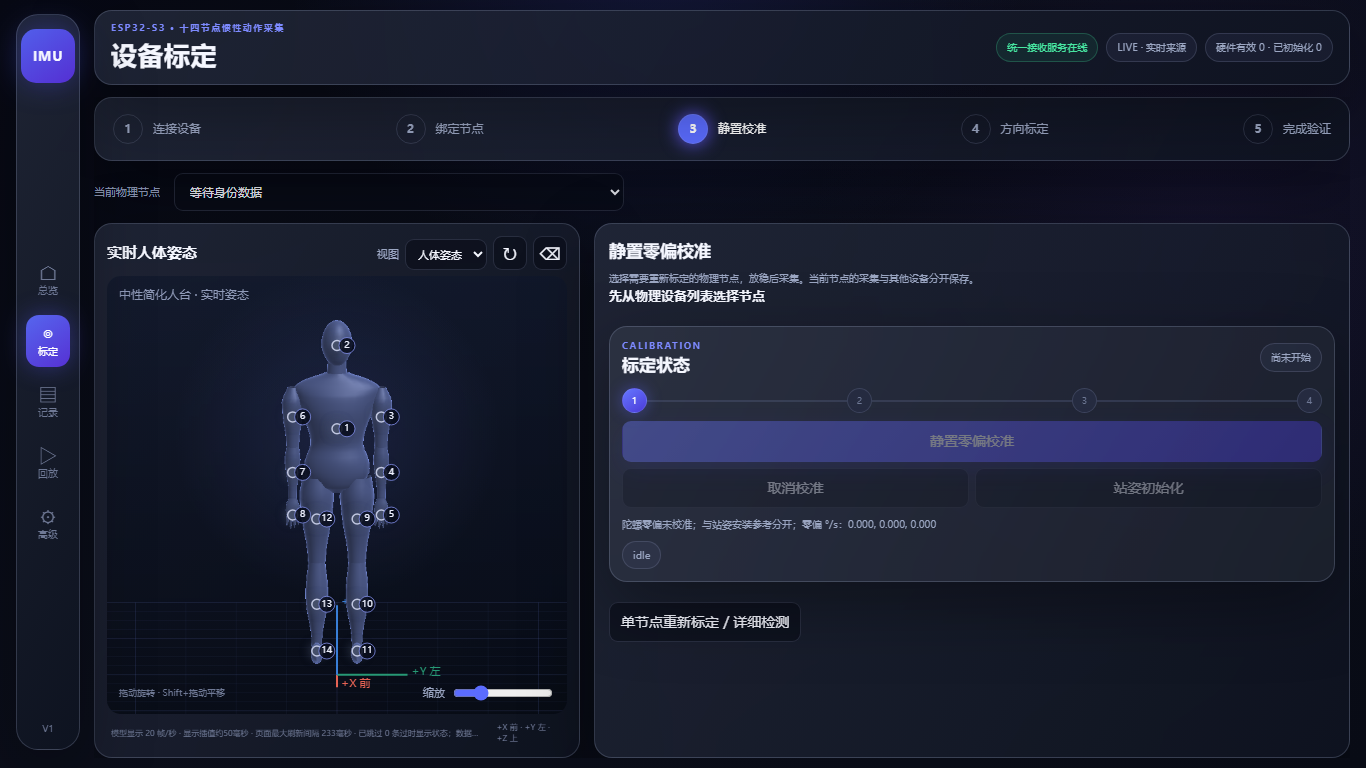
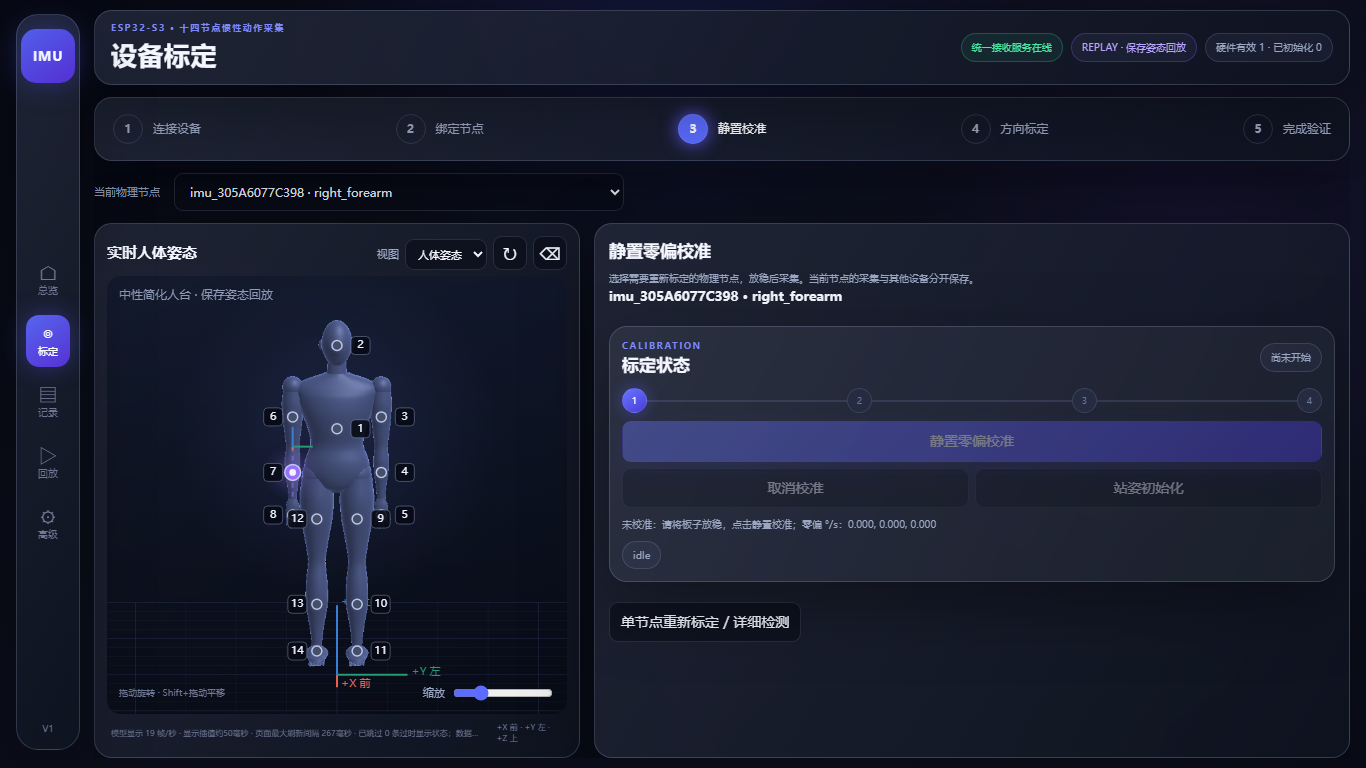
feat: refine mannequin joints hands feet and sensor markers

diff --git a/host/web/mannequin.js b/host/web/mannequin.js
@@ -22,6 +22,24 @@
       for(let j=0;j<=steps;j++){const t=j/steps,r=interpolate(profile,t),center=add(a,mul(sub(b,a),t));rings.push(Array.from({length:sides},(_,i)=>{const angle=i/sides*2*Math.PI;return add(center,add(mul(u,r*Math.cos(angle)),mul(v,r*depth*Math.sin(angle))));}));}
       surface(rings,sides);
     }
+    function ellipsoid(center,radii,q=[1,0,0,0]){
+      const rings=[],sides=24;
+      for(let j=0;j<=16;j++){const phi=-Math.PI/2+j/16*Math.PI,r=Math.max(.002,Math.cos(phi));rings.push(Array.from({length:sides},(_,i)=>{const angle=i/sides*2*Math.PI;return add(center,rotate([radii[0]*r*Math.cos(angle),radii[1]*r*Math.sin(angle),radii[2]*Math.sin(phi)],q));}));}surface(rings,sides);
+    }
+    const joined=new Set();
+    function limb(upper,lower,top,bottom,depth=1){
+      const a=upper.start,b=upper.end,c=lower.end,first=sub(b,a),second=sub(c,b),tangent=unit(add(unit(first),unit(second))),rings=[],sides=24;
+      const direction=unit(first),capU=unit(cross(direction,Math.abs(direction[0])<.8?[1,0,0]:[0,1,0])),capV=unit(cross(direction,capU));
+      for(let j=0;j<5;j++){const angle=j/5*Math.PI/2,center=add(a,mul(direction,-top[0]*Math.cos(angle))),radius=Math.max(.001,top[0]*Math.sin(angle));rings.push(Array.from({length:sides},(_,i)=>add(center,add(mul(capU,radius*Math.cos(i/sides*2*Math.PI)),mul(capV,radius*depth*Math.sin(i/sides*2*Math.PI))))));}
+      for(let k=0;k<=32;k++){
+        const part=k<=16?0:1,t=part?(k-16)/16:k/16,start=part?b:a,end=part?c:b,length=Math.hypot(...sub(end,start)),m0=mul(part?tangent:unit(first),length),m1=mul(part?unit(second):tangent,length),t2=t*t,t3=t2*t;
+        const center=start.map((v,i)=>(2*t3-3*t2+1)*v+(t3-2*t2+t)*m0[i]+(-2*t3+3*t2)*end[i]+(t3-t2)*m1[i]);
+        const derivative=unit(start.map((v,i)=>(6*t2-6*t)*v+(3*t2-4*t+1)*m0[i]+(-6*t2+6*t)*end[i]+(3*t2-2*t)*m1[i]));
+        const u=unit(cross(derivative,Math.abs(derivative[0])<.8?[1,0,0]:[0,1,0])),v=unit(cross(derivative,u)),radius=interpolate(part?bottom:top,t);
+        rings.push(Array.from({length:sides},(_,i)=>add(center,add(mul(u,radius*Math.cos(i/sides*2*Math.PI)),mul(v,radius*depth*Math.sin(i/sides*2*Math.PI))))));
+      }
+      surface(rings,sides);joined.add(upper.id||upper.slot);joined.add(lower.id||lower.slot);
+    }
     const pelvis=map.pelvis;
     if(pelvis){
       const base=pelvis.start,q=pelvis.world_quaternion||[1,0,0,0],rows=[[-.075,.038,.05],[-.045,.115,.087],[.015,.16,.105],[.085,.158,.105],[.16,.132,.09],[.24,.145,.105],[.33,.18,.115],[.41,.205,.105],[.455,.21,.085],[.49,.155,.068],[.525,.056,.052]],rings=[];
@@ -30,12 +48,18 @@
       const row=rows.at(-1);rings.push(Array.from({length:28},(_,i)=>add(base,rotate([row[2]*Math.cos(i/28*Math.PI*2),row[1]*Math.sin(i/28*Math.PI*2),row[0]],q))));surface(rings,28);
       const neck=map.head?.start||add(base,rotate([0,0,.55],q));tube(add(base,rotate([0,0,.49],q)),add(neck,rotate([0,0,.07],q)),[.053,.048,.046],.9);
     }
+    for(const side of ["left","right"]){
+      const arm=map[side+"_upper_arm"],forearm=map[side+"_forearm"],thigh=map[side+"_thigh"],shank=map[side+"_shank"];
+      if(arm&&forearm)limb(arm,forearm,[.047,.054,.050,.042,.033],[.033,.039,.036,.027,.021],1.03);
+      if(thigh&&shank)limb(thigh,shank,[.075,.086,.078,.059,.043],[.043,.054,.055,.037,.025],1.1);
+    }
     for(const segment of segments){
-      const id=segment.id||segment.slot,a=segment.start,b=segment.end;if(!a||!b||id==="pelvis")continue;
+      const id=segment.id||segment.slot,a=segment.start,b=segment.end;if(!a||!b||id==="pelvis"||joined.has(id))continue;
       if(id==="head"){
         const q=segment.world_quaternion||[1,0,0,0],length=Math.hypot(...sub(b,a)),center=add(a,mul(sub(b,a),.54)),rings=[],sides=28;
         for(let j=0;j<=22;j++){const phi=-Math.PI/2+j/22*Math.PI,ring=Math.max(.003,Math.cos(phi)),jaw=phi<-.15?.79+.21*(phi+Math.PI/2)/(Math.PI/2-.15):1;
           rings.push(Array.from({length:sides},(_,i)=>{const theta=i/sides*2*Math.PI;let x=.084*ring*Math.cos(theta),y=.077*ring*Math.sin(theta)*jaw,z=length*.54*Math.sin(phi);const nose=Math.max(0,Math.cos(theta))**18*Math.exp(-(((phi+.07)/.22)**2))*.018;x+=nose;return add(center,rotate([x,y,z],q));}));}surface(rings,sides);
+        for(const side of [-1,1])ellipsoid(add(center,rotate([-.008,side*.077,-.006],q)),[.012,.014,.027],q);
       }else if(id.includes("upper_arm"))tube(a,b,[.025,.052,.052,.045,.036,.032],1.05);
       else if(id.includes("forearm"))tube(a,b,[.031,.039,.037,.029,.022,.021],.95);
       else if(id.includes("thigh"))tube(a,b,[.072,.086,.079,.068,.052,.044],1.12);
@@ -46,7 +70,8 @@
         for(let finger=0;finger<4;finger++){const spread=(finger-1.5)*.016,start=add(add(a,mul(delta,.53)),mul(side,spread)),end=add(add(a,mul(delta,.95-Math.abs(finger-1.3)*.09)),mul(side,spread*1.22));tube(start,end,[.008,.008,.006,.002],.8,10,6);}
         tube(add(a,mul(delta,.21)),add(add(a,mul(delta,.65)),mul(side,.047)),[.012,.011,.006,.002],.8,12,6);
       }else if(id.includes("foot")){
-        const delta=sub(b,a),q=segment.world_quaternion,down=rotate([0,0,-.04],q),toe=add(add(a,mul(delta,.82)),down);tube(add(a,mul(down,.15)),toe,[.026,.041,.047,.043,.024,.005],.65,20,12);
+        const delta=sub(b,a),q=segment.world_quaternion,down=rotate([0,0,-.055],q),toe=add(add(a,mul(delta,.86)),down);tube(add(a,mul(down,.25)),toe,[.025,.035,.031,.026,.023,.006],1.65,24,16);
+        const side=rotate([0,1,0],q);for(let i=0;i<5;i++){const offset=mul(side,(i-2)*.016),start=add(add(a,mul(delta,.70)),add(down,offset)),end=add(add(a,mul(delta,.97-i*.022)),add(down,offset));tube(start,end,[.011-i*.001,.012-i*.001,.007,.002],.8,10,6);}
       }
     }
     return faces;

diff --git a/host/web/body_view.js b/host/web/body_view.js
@@ -70,9 +70,11 @@
         // The links between joint anchors are virtual geometry, not additional
         // sampled segments. Connect to the nearest point on the parent bone.
         const parent=bySegment[segment.parent];
-        if(selected||segment.measured)line(a,b,selected?"#9b72ff":color,selected?4:2,segment.measured?[]:[5,4]);
-        const node=[(a[0]+b[0])/2,(a[1]+b[1])/2];ctx.save();ctx.fillStyle=selected?"#9b72ff":color;ctx.shadowColor=ctx.fillStyle;ctx.shadowBlur=selected?20:12;for(const point of [node]){ctx.beginPath();ctx.arc(point[0],point[1],selected?7:5,0,Math.PI*2);ctx.fill();ctx.strokeStyle="rgba(225,230,255,.8)";ctx.lineWidth=1.5;ctx.stroke();}ctx.restore();
-        const center=[(a[0]+b[0])/2,(a[1]+b[1])/2];ctx.save();ctx.fillStyle="rgba(8,12,29,.88)";ctx.strokeStyle="rgba(143,157,255,.72)";ctx.lineWidth=1;ctx.beginPath();ctx.arc(center[0]+10,center[1],8,0,Math.PI*2);ctx.fill();ctx.stroke();ctx.fillStyle="#eef1ff";ctx.font="9px system-ui";ctx.textAlign="center";ctx.textBaseline="middle";ctx.fillText(String(segmentIndex),center[0]+10,center[1]);ctx.restore();
+        if(selected)line(a,b,"rgba(155,114,255,.5)",2,segment.measured?[]:[5,4]);
+        const node=[(a[0]+b[0])/2,(a[1]+b[1])/2],radius=selected?8:segment.measured?7:5;
+        ctx.save();ctx.shadowColor=selected?"#9873ff":color;ctx.shadowBlur=selected?22:segment.measured?15:4;ctx.fillStyle=selected?"#9b72ff":color;ctx.beginPath();ctx.arc(node[0],node[1],radius,0,Math.PI*2);ctx.fill();ctx.strokeStyle="rgba(210,220,255,.85)";ctx.lineWidth=1.5;ctx.stroke();
+        if(segment.measured||selected){ctx.shadowBlur=0;ctx.fillStyle="#f1f4ff";ctx.beginPath();ctx.arc(node[0],node[1],radius*.42,0,Math.PI*2);ctx.fill();}ctx.restore();
+        const labelX=node[0]+(node[0]<box.width/2-8?-29:14);ctx.save();ctx.fillStyle="rgba(7,10,21,.88)";ctx.strokeStyle="rgba(163,177,217,.5)";ctx.lineWidth=.8;ctx.beginPath();if(ctx.roundRect)ctx.roundRect(labelX,node[1]-9,19,18,4);else ctx.rect(labelX,node[1]-9,19,18);ctx.fill();ctx.stroke();ctx.fillStyle="#eef1ff";ctx.font="11px system-ui";ctx.textAlign="center";ctx.textBaseline="middle";ctx.fillText(String(segmentIndex),labelX+9.5,node[1]);ctx.restore();
         this.hits.push({slot,device_id:segment.device_id,a,b});
         if(selected){[[.1,0,0],[0,.1,0],[0,0,.1]].forEach((axis,i)=>{const delta=rotate(axis,segment.world_quaternion||[1,0,0,0]);line(a,project(translatePoint(start.map((v,j)=>v+delta[j]),rootOffset)),["#e66354","#279975","#397fd7"][i],2);});}
       }

diff --git a/host/web/index.html b/host/web/index.html
@@ -208,7 +208,7 @@
 
 <dialog id="recordDialog"><div class="section-heading"><h2>历史记录与回放</h2><button id="closeDialog">关闭</button></div><div class="buttons"><select id="sessions" aria-label="记录会话"></select><button id="preview">预览</button><button id="loadReplay">加载回放</button><button id="download">导出 ZIP</button></div><p id="sessionInfo" class="subtle"></p><div class="tableScroll"><table id="previewTable"></table></div></dialog>
 <script src="/static/session_archive.js?v=glass-v2-20261030" defer></script><script src="/static/navigation.js?v=glass-v2-20261030" defer></script>
-<script src="/static/mannequin.js?v=surface-v3-raster1" defer></script>
-<script src="/static/pose_math.js?v=glass-v2-20261030" defer></script><script src="/static/body_view.js?v=surface-v3-raster1" defer></script><script src="/static/app.js?v=glass-v2-20261030" defer></script><script src="/static/direction_app.js?v=glass-v2-20261030" defer></script><script src="/static/body_app.js?v=glass-v2-20261030" defer></script>
+<script src="/static/mannequin.js?v=surface-v4" defer></script>
+<script src="/static/pose_math.js?v=glass-v2-20261030" defer></script><script src="/static/body_view.js?v=surface-v4" defer></script><script src="/static/app.js?v=glass-v2-20261030" defer></script><script src="/static/direction_app.js?v=glass-v2-20261030" defer></script><script src="/static/body_app.js?v=glass-v2-20261030" defer></script>
 </body>
 </html>
